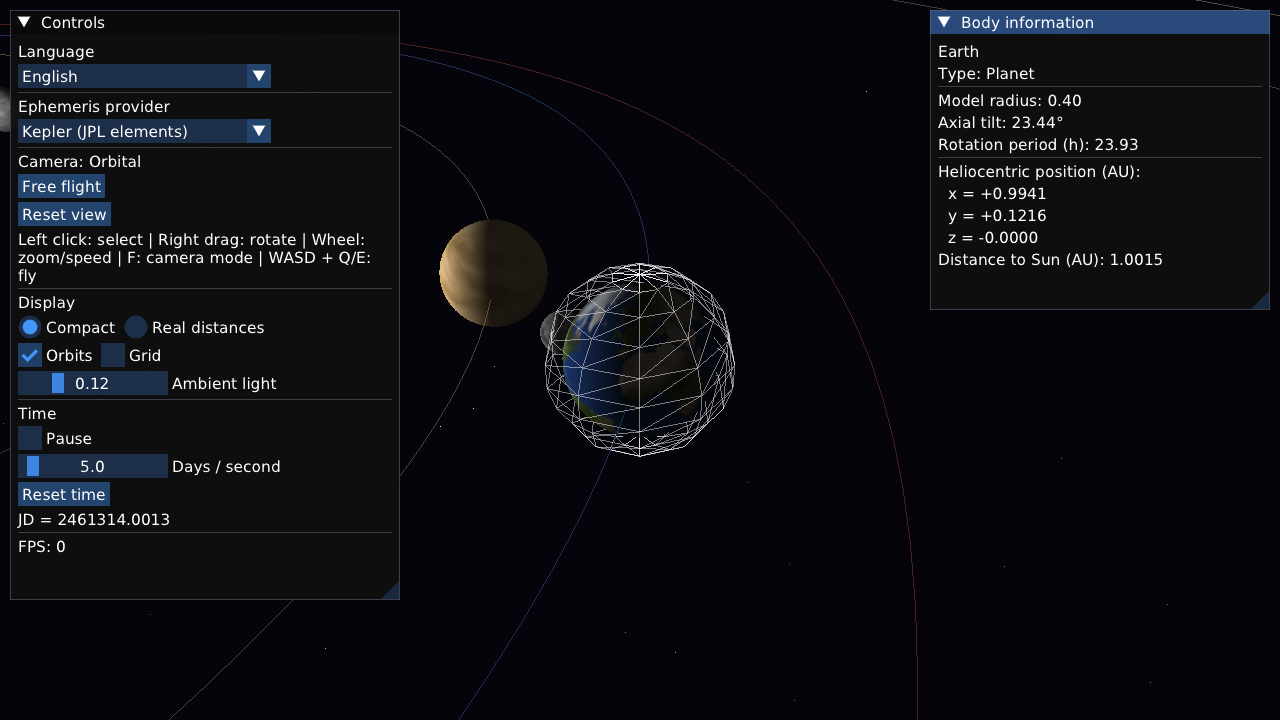
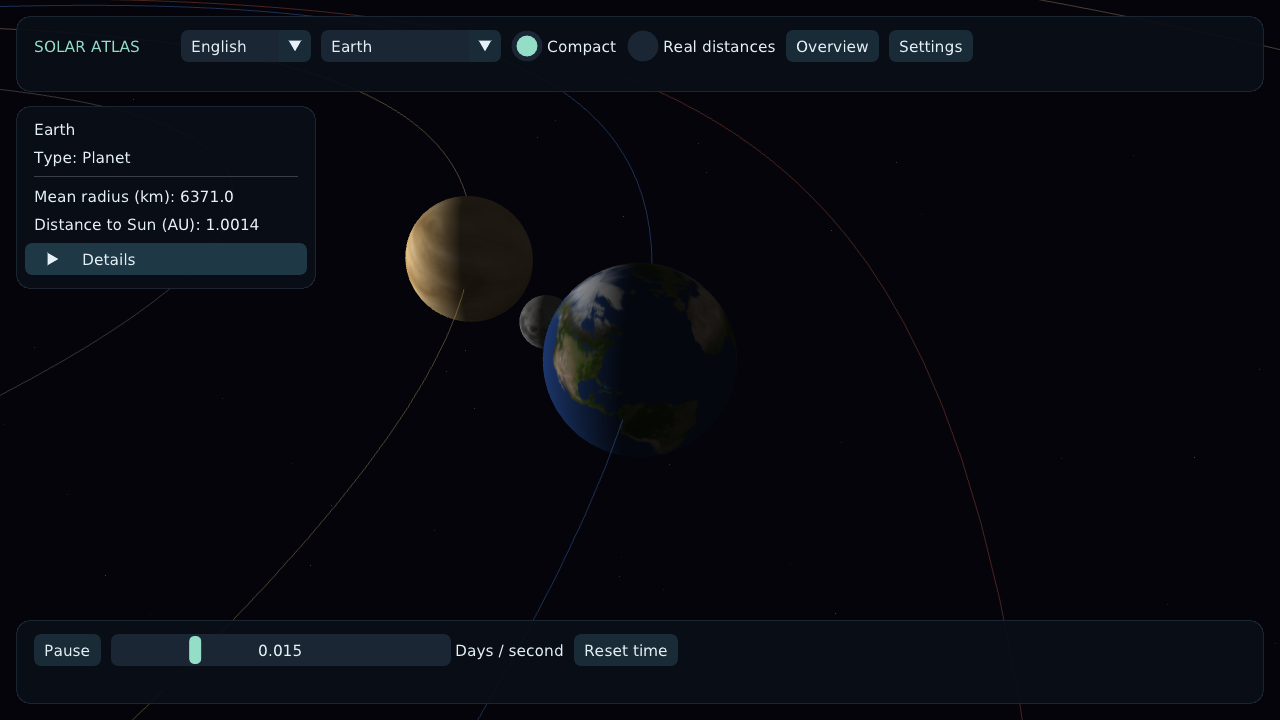
Refine atlas UI and anti-aliased Saturn rings

diff --git a/src/UIManager.cpp b/src/UIManager.cpp
@@ -5,6 +5,8 @@
 #include "SolarSystem.hpp"
 #include "imgui.h"
 #include <cmath>
+#include <cstring>
+#include <algorithm>
 
 namespace solar {
 namespace {
@@ -35,34 +37,54 @@ Text kindKey(BodyKind kind) {
 
 void UIManager::draw(SimulationClock& clock, CameraController& camera,
                      CelestialBody*& selected, const SolarSystem& system) {
-    ImGui::SetNextWindowPos(ImVec2(10, 10), ImGuiCond_FirstUseEver);
-    ImGui::SetNextWindowSize(ImVec2(390, 680), ImGuiCond_FirstUseEver);
-    ImGui::Begin(tr(Text::Controls));
-    ImGui::TextUnformatted(tr(Text::LanguageLabel));
+    const float width = ImGui::GetIO().DisplaySize.x;
+    const float height = ImGui::GetIO().DisplaySize.y;
+    const float density = std::clamp(width / 1280.f, 1.f, 2.f);
+    auto& style = ImGui::GetStyle();
+    style.WindowRounding = 14;
+    style.FrameRounding = 7;
+    style.PopupRounding = 10;
+    style.GrabRounding = 7;
+    style.WindowPadding = ImVec2(18 * density, 14 * density);
+    style.FramePadding = ImVec2(10 * density, 7 * density);
+    style.ItemSpacing = ImVec2(10 * density, 10 * density);
+    style.WindowBorderSize = 1;
+    style.Colors[ImGuiCol_WindowBg] = ImVec4(.035f, .055f, .085f, .93f);
+    style.Colors[ImGuiCol_PopupBg] = ImVec4(.045f, .065f, .095f, .98f);
+    style.Colors[ImGuiCol_Border] = ImVec4(.35f, .48f, .58f, .22f);
+    style.Colors[ImGuiCol_Text] = ImVec4(.90f, .94f, .97f, 1);
+    style.Colors[ImGuiCol_TextDisabled] = ImVec4(.52f, .62f, .70f, 1);
+    style.Colors[ImGuiCol_FrameBg] = ImVec4(.10f, .15f, .20f, 1);
+    style.Colors[ImGuiCol_FrameBgHovered] = ImVec4(.15f, .23f, .29f, 1);
+    style.Colors[ImGuiCol_FrameBgActive] = ImVec4(.19f, .30f, .34f, 1);
+    style.Colors[ImGuiCol_Button] = ImVec4(.10f, .17f, .22f, 1);
+    style.Colors[ImGuiCol_ButtonHovered] = ImVec4(.18f, .31f, .35f, 1);
+    style.Colors[ImGuiCol_ButtonActive] = ImVec4(.23f, .40f, .41f, 1);
+    style.Colors[ImGuiCol_CheckMark] = ImVec4(.58f, .87f, .78f, 1);
+    style.Colors[ImGuiCol_SliderGrab] = style.Colors[ImGuiCol_CheckMark];
+    style.Colors[ImGuiCol_SliderGrabActive] = ImVec4(.72f, 1, .89f, 1);
+    style.Colors[ImGuiCol_Header] = ImVec4(.12f, .22f, .27f, 1);
+    style.Colors[ImGuiCol_HeaderHovered] = style.Colors[ImGuiCol_ButtonHovered];
+    const bool narrow = width < 1100 * density;
+    const float topHeight = (narrow ? 112.f : 76.f) * density;
+    const auto panelFlags = ImGuiWindowFlags_NoTitleBar | ImGuiWindowFlags_NoResize |
+        ImGuiWindowFlags_NoMove | ImGuiWindowFlags_NoSavedSettings;
+    ImGui::SetNextWindowPos(ImVec2(16 * density, 16 * density));
+    ImGui::SetNextWindowSize(ImVec2(width - 32 * density, topHeight));
+    ImGui::Begin("##atlasBar", nullptr, panelFlags);
+    ImGui::AlignTextToFramePadding();
+    ImGui::TextColored(ImVec4(.58f, .87f, .78f, 1), "SOLAR ATLAS");
+    ImGui::SameLine(165 * density);
+    ImGui::SetNextItemWidth(130 * density);
     int language = static_cast<int>(language_);
     const char* languages[] = {"English", "Deutsch", "Русский"};
     if (ImGui::Combo("##language", &language, languages, IM_ARRAYSIZE(languages))) {
         language_ = static_cast<Language>(language);
         SetWindowTitle(tr(Text::AppTitle));
     }
-    ImGui::Separator();
-    ImGui::TextUnformatted(tr(Text::Provider));
-#ifdef HAVE_LIBNOVA
-    const char* providers[] = {"libnova (VSOP87)", tr(Text::Kepler)};
-#else
-    const char* providers[] = {tr(Text::Kepler)};
-#endif
-    ImGui::Combo("##provider", &provider_, providers, IM_ARRAYSIZE(providers));
-    ImGui::Separator();
-    const bool orbital = camera.mode() == CameraController::Mode::Orbital;
-    ImGui::Text("%s: %s", tr(Text::Camera), tr(orbital ? Text::Orbital : Text::Free));
-    if (ImGui::Button(tr(orbital ? Text::SwitchFree : Text::SwitchOrbit))) camera.toggleMode();
-    if (ImGui::Button(tr(Text::ResetView))) {
-        selected = nullptr;
-        camera.focusOn(Vector3{0.f, 0.f, 0.f}, 7.0f);
-    }
-    ImGui::TextWrapped("%s", tr(Text::Instructions));
-    if (ImGui::BeginCombo(tr(Text::SelectBody), selected ? tr(nameKey(*selected)) : "—")) {
+    ImGui::SameLine();
+    ImGui::SetNextItemWidth(180 * density);
+    if (ImGui::BeginCombo("##selectBody", selected ? tr(nameKey(*selected)) : tr(Text::Explore))) {
         for (const auto& body : system.bodies()) {
             if (ImGui::Selectable(tr(nameKey(*body)), selected == body.get())) {
                 selected = body.get();
@@ -73,52 +95,88 @@ void UIManager::draw(SimulationClock& clock, CameraController& camera,
         }
         ImGui::EndCombo();
     }
-    ImGui::Separator();
-    ImGui::TextUnformatted(tr(Text::Display));
+    if (!narrow) ImGui::SameLine();
     ImGui::RadioButton(tr(Text::Compact), &scaleMode_, 0);
     ImGui::SameLine();
     ImGui::RadioButton(tr(Text::Real), &scaleMode_, 1);
-    if (scaleMode_ == 1) ImGui::TextWrapped("%s", tr(Text::RealScaleHint));
-    ImGui::Checkbox(tr(Text::Orbits), &showOrbits_);
     ImGui::SameLine();
-    ImGui::Checkbox(tr(Text::Grid), &showGrid_);
-    ImGui::Checkbox(tr(Text::SelectionWireframe), &showSelectionWireframe_);
-    ImGui::SetNextItemWidth(150);
-    ImGui::SliderFloat(tr(Text::Ambient), &ambient_, 0.0f, 0.5f, "%.2f");
-    ImGui::Separator();
-    ImGui::TextUnformatted(tr(Text::Time));
-    bool paused = clock.isPaused();
-    if (ImGui::Checkbox(tr(Text::Pause), &paused)) clock.setPaused(paused);
+    if (ImGui::Button(tr(Text::Overview))) {
+        selected = nullptr;
+        camera.focusOn(Vector3{0, 0, 0}, 7);
+    }
+    ImGui::SameLine();
+    if (ImGui::Button(tr(Text::Settings))) settingsOpen_ = !settingsOpen_;
+    ImGui::End();
+
+    if (settingsOpen_) {
+        ImGui::SetNextWindowPos(ImVec2(width - 356 * density, topHeight + 30 * density));
+        ImGui::SetNextWindowSize(ImVec2(340 * density, height - topHeight - 160 * density));
+        ImGui::Begin("##settingsPanel", nullptr, panelFlags);
+        ImGui::TextUnformatted(tr(Text::Display));
+        ImGui::Separator();
+        ImGui::Checkbox(tr(Text::Orbits), &showOrbits_);
+        ImGui::Checkbox(tr(Text::Grid), &showGrid_);
+        ImGui::Checkbox(tr(Text::SelectionWireframe), &showSelectionWireframe_);
+        const char* ambientLabel = tr(Text::Ambient);
+        ImGui::TextUnformatted(ambientLabel, std::strstr(ambientLabel, "###"));
+        ImGui::SetNextItemWidth(-1);
+        ImGui::SliderFloat("##ambient", &ambient_, 0, .5f, "%.2f");
+        if (scaleMode_ == 1) ImGui::TextWrapped("%s", tr(Text::RealScaleHint));
+        ImGui::Spacing();
+        const bool orbital = camera.mode() == CameraController::Mode::Orbital;
+        if (ImGui::Button(tr(orbital ? Text::SwitchFree : Text::SwitchOrbit))) camera.toggleMode();
+        if (ImGui::CollapsingHeader(tr(Text::Help))) ImGui::TextWrapped("%s", tr(Text::Instructions));
+        if (ImGui::CollapsingHeader(tr(Text::Diagnostics))) {
+            ImGui::Text("FPS: %d", GetFPS());
+            ImGui::Text("JD: %.4f", clock.julianDay());
+            ImGui::TextWrapped("%s", tr(Text::Provider));
+#ifdef HAVE_LIBNOVA
+            const char* providers[] = {"libnova (VSOP87)", tr(Text::Kepler)};
+#else
+            const char* providers[] = {tr(Text::Kepler)};
+#endif
+            ImGui::SetNextItemWidth(-1);
+            ImGui::Combo("##provider", &provider_, providers, IM_ARRAYSIZE(providers));
+        }
+        ImGui::End();
+    }
+
+    ImGui::SetNextWindowPos(ImVec2(16 * density, height - 100 * density));
+    ImGui::SetNextWindowSize(ImVec2(width - 32 * density, 84 * density));
+    ImGui::Begin("##playback", nullptr, panelFlags);
+    if (ImGui::Button(tr(clock.isPaused() ? Text::Play : Text::Pause))) clock.setPaused(!clock.isPaused());
+    ImGui::SameLine();
     float speed = static_cast<float>(clock.speed());
-    ImGui::SetNextItemWidth(150);
-    if (ImGui::SliderFloat(tr(Text::Speed), &speed, 0.0f, 100.0f, "%.1f")) clock.setSpeed(speed);
+    ImGui::SetNextItemWidth((width > 900 * density ? 340 : 180) * density);
+    if (ImGui::SliderFloat(tr(Text::Speed), &speed, .001f, 100.f, "%.3f", ImGuiSliderFlags_Logarithmic)) clock.setSpeed(speed);
+    ImGui::SameLine();
     if (ImGui::Button(tr(Text::ResetTime))) clock.reset();
-    ImGui::Text("JD = %.4f", clock.julianDay());
-    ImGui::Separator();
-    ImGui::Text("FPS: %d", GetFPS());
     ImGui::End();
     drawInfoPanel(selected);
 }
 
 void UIManager::drawInfoPanel(const CelestialBody* selected) const {
     if (!selected) return;
-    ImGui::SetNextWindowPos(ImVec2(GetScreenWidth() - 350.f, 10.f), ImGuiCond_FirstUseEver);
-    ImGui::SetNextWindowSize(ImVec2(340, 300), ImGuiCond_FirstUseEver);
-    ImGui::Begin(tr(Text::BodyInfo));
+    const float width = ImGui::GetIO().DisplaySize.x;
+    const float density = std::clamp(width / 1280.f, 1.f, 2.f);
+    const float top = (width < 1100 * density ? 142.f : 106.f) * density;
+    ImGui::SetNextWindowPos(ImVec2(16 * density, top));
+    ImGui::SetNextWindowSize(ImVec2(300 * density, 0));
+    ImGui::Begin("##bodyInfo", nullptr, ImGuiWindowFlags_NoTitleBar | ImGuiWindowFlags_NoResize |
+        ImGuiWindowFlags_NoMove | ImGuiWindowFlags_NoSavedSettings | ImGuiWindowFlags_AlwaysAutoResize);
     ImGui::TextUnformatted(tr(nameKey(*selected)));
     ImGui::TextWrapped("%s: %s", tr(Text::Type), tr(kindKey(selected->kind())));
     ImGui::Separator();
     const Vector3 p = selected->worldPosition();
     const float dist = std::sqrt(p.x * p.x + p.y * p.y + p.z * p.z);
     ImGui::Text("%s: %.1f", tr(Text::Radius), selected->physicalRadiusKm());
-    ImGui::Text("%s: %.2f°", tr(Text::Tilt), selected->axialTilt());
-    ImGui::Text("%s: %.2f", tr(Text::Rotation), selected->rotationPeriodHours());
-    ImGui::Separator();
-    ImGui::TextWrapped("%s:", tr(Text::Position));
-    ImGui::Text("  x = %+.4f", p.x);
-    ImGui::Text("  y = %+.4f", p.y);
-    ImGui::Text("  z = %+.4f", p.z);
     ImGui::TextWrapped("%s: %.4f", tr(Text::Distance), dist);
+    if (ImGui::CollapsingHeader(tr(Text::Details))) {
+        ImGui::Text("%s: %.2f°", tr(Text::Tilt), selected->axialTilt());
+        ImGui::TextWrapped("%s: %.2f", tr(Text::Rotation), selected->rotationPeriodHours());
+        ImGui::TextWrapped("%s:", tr(Text::Position));
+        ImGui::Text("x %+.4f / y %+.4f / z %+.4f", p.x, p.y, p.z);
+    }
     ImGui::End();
 }
 } // namespace solar

diff --git a/include/Localization.hpp b/include/Localization.hpp
@@ -12,7 +12,8 @@ enum class Text {
     Orbits, Grid, Ambient, Time, Pause, Speed, ResetTime, BodyInfo, Type,
     Radius, Tilt, Rotation, Position, Distance,
     Sun, Mercury, Venus, Earth, Mars, Jupiter, Saturn, Uranus, Neptune, Moon,
-    StarType, PlanetType, MoonType, SelectionWireframe, SelectBody, RealScaleHint, Count
+    StarType, PlanetType, MoonType, SelectionWireframe, SelectBody, RealScaleHint,
+    Settings, Details, Diagnostics, Overview, Play, Help, Explore, Count
 };
 // Translated presentation strings; stable IDs preserve ImGui state across languages.
 inline constexpr std::array<std::array<const char*, 3>, static_cast<std::size_t>(Text::Count)> translations{{
@@ -56,7 +57,14 @@ inline constexpr std::array<std::array<const char*, 3>, static_cast<std::size_t>
     {"Natural satellite", "Natürlicher Satellit", "Спутник"},
     {"Selection wireframe###selectionWireframe", "Auswahlgitter###selectionWireframe", "Сетка выделения###selectionWireframe"},
     {"Select body###selectBody", "Himmelskörper wählen###selectBody", "Выбрать тело###selectBody"},
-    {"True sizes and distances. Use the body selector to inspect tiny planets.", "Reale Größen und Abstände. Kleine Planeten über die Auswahl betrachten.", "Реальные размеры и расстояния. Используйте список для приближения к планетам."}
+    {"True sizes and distances. Use the body selector to inspect tiny planets.", "Reale Größen und Abstände. Kleine Planeten über die Auswahl betrachten.", "Реальные размеры и расстояния. Используйте список для приближения к планетам."},
+    {"Settings###settings", "Einstellungen###settings", "Настройки###settings"},
+    {"Details", "Details", "Подробнее"},
+    {"Developer details", "Entwicklerdetails", "Для разработчика"},
+    {"Overview###overview", "Übersicht###overview", "Обзор###overview"},
+    {"Play###play", "Abspielen###play", "Продолжить###play"},
+    {"Navigation", "Navigation", "Навигация"},
+    {"Explore a planet", "Planet erkunden", "Выбрать планету"}
 }};
 inline const char* text(Text key, Language language) {
     return translations.at(static_cast<std::size_t>(key)).at(static_cast<std::size_t>(language));

diff --git a/src/Planet.cpp b/src/Planet.cpp
@@ -13,7 +13,7 @@ namespace {
 // immediate-режиме rlgl — никаких отдельных GPU-ресурсов держать не нужно.
 // Треугольники выводятся в обе стороны, чтобы кольцо было видно сверху и снизу.
 void drawRing(float inner, float outer, Color c, Texture2D texture) {
-    constexpr int segments = 72;
+    constexpr int segments = 256;
     constexpr double kTwoPi = 2.0 * 3.14159265358979323846;
 
     rlSetTexture(texture.id);
@@ -81,7 +81,10 @@ void Planet::enableRings(float innerRadius, float outerRadius, Color color) {
         UnloadTexture(ringTexture_);
     ringTexture_ = LoadTexture(assetPath("textures/saturn_ring.png").c_str());
     if (IsTextureValid(ringTexture_)) {
-        SetTextureFilter(ringTexture_, TEXTURE_FILTER_BILINEAR);
+        // Fine radial bands need mipmaps to avoid shimmering at oblique angles.
+        GenTextureMipmaps(&ringTexture_);
+        SetTextureFilter(ringTexture_, TEXTURE_FILTER_TRILINEAR);
+        SetTextureFilter(ringTexture_, TEXTURE_FILTER_ANISOTROPIC_8X);
         SetTextureWrap(ringTexture_, TEXTURE_WRAP_CLAMP);
     }
 }

diff --git a/src/main.cpp b/src/main.cpp
@@ -49,6 +49,7 @@ int main() {
 
     const char* languageEnv = std::getenv("SS_LANGUAGE");
     const auto language = solar::languageFromCode(languageEnv ? languageEnv : "en");
+    SetConfigFlags(FLAG_MSAA_4X_HINT);
     InitWindow(screenWidth, screenHeight, solar::text(solar::Text::AppTitle, language));
     SetTargetFPS(60);
 
@@ -56,6 +57,7 @@ int main() {
     rlImGuiBeginInitImGui();
     {
         ImGuiIO& io = ImGui::GetIO();
+        io.IniFilename = nullptr; // Fixed responsive layout, not legacy saved window positions.
         io.Fonts->Clear();
         const std::string fontPath = solar::assetPath("fonts/DejaVuSans.ttf");
         io.Fonts->AddFontFromFileTTF(fontPath.c_str(), 18.0f, nullptr,
@@ -70,7 +72,7 @@ int main() {
     solar::SolarSystem system =
         solar::SolarSystem::createRealistic(makeProvider(0));
 
-    solar::SimulationClock clock{5.0};
+    solar::SimulationClock clock{0.015};
     solar::RenderContext rctx{};
 
     solar::Renderer renderer;

diff --git a/include/UIManager.hpp b/include/UIManager.hpp
@@ -30,6 +30,9 @@ public:
         return scaleMode_ == 0 ? RenderContext::Scale::Compact
                                : RenderContext::Scale::Real;
     }
+    void setScale(RenderContext::Scale value) {
+        scaleMode_ = value == RenderContext::Scale::Compact ? 0 : 1;
+    }
     bool showOrbits() const { return showOrbits_; }
     bool showGrid() const { return showGrid_; }
     bool showSelectionWireframe() const { return showSelectionWireframe_; }
@@ -47,6 +50,7 @@ private:
     bool showSelectionWireframe_{false};
     float ambient_{0.12f};
     int provider_{0};
+    bool settingsOpen_{false};
 };
 
 } // namespace solar

diff --git a/README.md b/README.md
@@ -27,6 +27,9 @@ completed milestones and remaining finalization tasks.
 - Simulation pause, adjustable time speed, orbit paths and a reference grid.
 - Compact view with exaggerated bodies, or real distances **and physical body sizes** using one consistent AU scale.
 - Body selector with automatic camera focus, and an optional selection wireframe (off by default).
+- Restrained dark atlas interface: top navigation, compact body cards, bottom playback controls and expandable settings/developer details.
+- Smooth slow playback by default; logarithmic speed control for both close-up exploration and fast orbital motion.
+- Mipmapped, anisotropically filtered Saturn rings with a 256-segment outline; 4x MSAA requested where the graphics backend supports it.
 - Sun lighting, a starfield and an information panel with coordinates and rotation parameters.
 - Bundled Sun, planet and Moon textures with Y-up poles and equirectangular UV mapping.
 - Live **English / Deutsch / Русский** switching in the control panel.
@@ -73,7 +76,10 @@ The [GitHub Pages demo](https://zbybko.github.io/solar-system/) runs the C++ app
 in your browser through WebAssembly, using the Kepler provider. A desktop browser
 with WebGL and a mouse is recommended.
 
-English is the default. Use **Language** in the control panel to switch without restarting.
+English is the default. Use the language dropdown in the top bar to switch without restarting.
+Choose a body next to it; **Settings** contains orbits, grid, selection wireframe, lighting,
+camera mode and navigation help. Ephemeris selection, FPS and Julian date are under **Developer details**.
+Playback controls stay in the bottom bar. The initial speed is 0.015 simulated days per second.
 The selection lasts for the current session. Set `SS_LANGUAGE=en`, `de` or `ru` to choose a startup language.
 
 | Input | Action |
@@ -123,7 +129,7 @@ CI runs these checks; it does not replace graphical or numerical validation.
 ## Limitations
 
 - The built-in Moon model uses a simplified circular orbit. Planet positions are approximations.
-- Only compact mode exaggerates body radii and the Moon's displayed distance. In real-distance mode, bodies are tiny at system-wide zoom; use **Select body** to inspect them. Both modes represent bodies as spheres, not oblate ellipsoids; ring proportions remain approximate.
+- Only compact mode exaggerates body radii and the Moon's displayed distance. In real-distance mode, bodies are tiny at system-wide zoom; use the top-bar body selector to inspect them. Both modes represent bodies as spheres, not oblate ellipsoids; ring proportions remain approximate.
 - Surface maps are static reference images; seasonal changes, clouds and atmospheric scattering are not simulated.
 - An earlier version reported a transparent-window issue with GLFW/OpenGL on macOS 26. Window presentation can depend on the OS and graphics stack.
 - No ROS integration, robot control or N-body gravitational solver is implemented.

diff --git a/README.de.md b/README.de.md
@@ -19,6 +19,9 @@ mit WebGL und Maus. Jeder Push auf `main` aktualisiert die Demo automatisch übe
 - Einstellbare Simulationsgeschwindigkeit, Pause, Umlaufbahnen und Raster.
 - Kompakte Darstellung mit vergrößerten Körpern oder reale Abstände und Körpergrößen in einem gemeinsamen Maßstab.
 - Himmelskörper-Auswahl mit automatischer Kamerafokussierung und optionalem Auswahlgitter (standardmäßig aus).
+- Dunkle Atlas-Oberfläche mit kompakter Navigation, Infokarten, Zeitleiste und ausklappbaren Einstellungen.
+- Langsame Wiedergabe als Standard und logarithmische Geschwindigkeitsregelung.
+- Gefilterte Saturnringe mit Mipmaps und einer feineren Kontur; Kantenglättung, soweit vom Grafiksystem unterstützt.
 - Beleuchtung durch die Sonne, Sternenhintergrund und Informationen zum gewählten Körper.
 - Oberflächentexturen für Sonne, Planeten und Mond mit korrigierter Polausrichtung.
 - Sprachwechsel zwischen **Deutsch, Englisch und Russisch**, ohne Neustart.
@@ -40,7 +43,10 @@ ROS und Robotersteuerung sind nicht Bestandteil des Projekts.
 
 ## Sprache auswählen
 
-Im Steuerungsfenster unter **Language** den Eintrag **Deutsch** auswählen.
+Im Sprachmenü der oberen Leiste **Deutsch** auswählen. Daneben lässt sich ein Planet auswählen.
+**Einstellungen** enthält Umlaufbahnen, Raster, Auswahlgitter, Beleuchtung und Kameramodus.
+Berechnungsmodell, FPS und Julianisches Datum stehen unter **Entwicklerdetails**.
+Die Wiedergabesteuerung bleibt am unteren Rand sichtbar.
 Die Auswahl gilt für die laufende Sitzung. Alternativ vor dem Start `SS_LANGUAGE=de` setzen.
 Englisch ist die Standardsprache; Russisch bleibt verfügbar.
 
